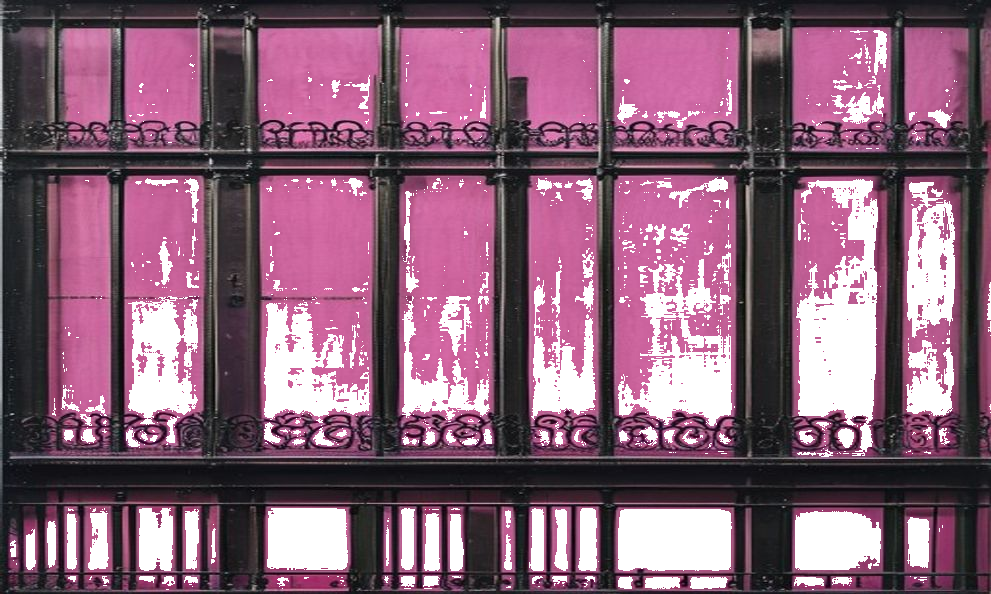
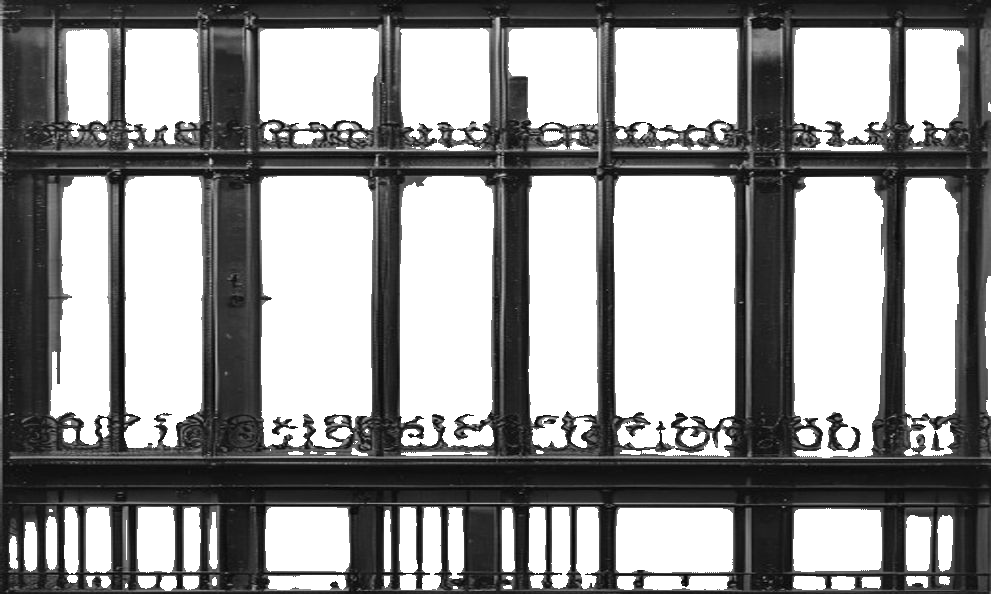
feat(harness): align-grilles verifier + re-key foreground.png grille
Add scripts/align-grilles.mjs, a single-wide verification harness for Belliard:
reuses align-windows.mjs measure/writeOverlay (no fork of the frozen file) and
builds the 54 green opening boxes directly from levelArt.json belliard.windows
via a new tested pure helper (scripts/lib/windowRows.mjs, mirrors
getWindowZones). Reads __MUF_SLOT_RECTS__ and gates a two-sided SEAT check that
the enemy feet box bottom sits at the window opening base, so the red-overflow
debug overlay covers the single-wide grille placement. yarn align:grilles alias
+ SCRIPTS.md section.

Re-key public/assets/levels/belliard/foreground.png: the regenerated décor-v3
asset had a partial chroma-key (colour-cast duotone left ~35% of the glass as
an opaque pink wash). Re-run retouch-belliard-decor.mjs (silhouette guard
passed, 0px bbox shrink) and wire that retouch step into
gen-belliard-decor.yml so future regenerations stay clean.

Claude-Session: https://claude.ai/code/session_01MpJ4Zo8KF4bzugsMWcd6VX

diff --git a/scripts/SCRIPTS.md b/scripts/SCRIPTS.md
@@ -676,6 +676,55 @@ Same setup as `align-windows.mjs` (built prod build served at `PREVIEW_URL`, `jp
 
 ---
 
+## align-grilles.mjs — Window/grille verification harness (single-wide belliard)
+
+Third sibling of `align-windows.mjs` / `align-troncon.mjs`, scoped to belliard's
+**single-wide** backdrop (ADR-0057: one baked `street-wide.png` plane, no more
+per-panel facade art or tronçon tiling). Neither sibling applies: there is no facade
+art to run edge/warm-glow DETECTION against, and none is needed — the window openings
+are **hand-authored** directly in `levelArt.json`'s `belliard.windows` (3 rows, 54
+zones: 12+18+24), expanded the same way `getWindowZones()`'s windows branch does (see
+`scripts/lib/windowRows.mjs`, unit-tested against the real manifest).
+
+The render (`WindowGrilles.tsx`) overlays the generated `foreground.png` ironwork
+sprite at each zone with its BOTTOM edge pinned to the enemy's own feet line (same
+formula `EnemySprite` uses) — so the grille can never independently drift off the cop;
+verifying "does the cop's feet box sit at its window opening's base" transitively
+verifies the grille.
+
+- **Verification-only** (unlike `align-windows.mjs`'s `--fix` loop): the hand-authored
+  zones are the ground truth, nothing is detected or corrected. It pushes them via
+  `__MUF_ZONES__`/`__MUF_APPLY_ZONES__`, reads back `__MUF_SLOT_RECTS__`, and reports
+  whether each rendered sprite box lands where it should. Reuses `measure()` (nearest-
+  opening pairing + COUNT/EMPTY) and `writeOverlay()` **unchanged** from
+  `align-windows.mjs` (imported, not forked) — that module's own `LEVEL_CFG`/detection
+  code paths (belliard included) are untouched.
+- **The SEAT gate** — this harness's own addition, not `measure()`'s one-sided OVERFLOW
+  check (which only flags a slot sinking BELOW its opening's base, never one floating
+  ABOVE it). Computes a two-sided verdict, `|slot.bottom − opening.base| <= SEAT_TAU`
+  (`SEAT_TAU = 0.01`, the same tolerance `align-windows.mjs`'s `TAU` uses), from
+  `measure()`'s already-paired `bySlot`, then feeds a `bySlot`-shaped array with
+  `contained` overridden by that verdict into the shared `writeOverlay()` so the debug
+  JPEG's red/magenta split reflects SEAT.
+- **Output:** `scripts/.dbg-belliard-grilles-check-i00.jpg` (gitignored) — the dimmed
+  `street-wide.png`, hand-authored openings in GREEN, rendered slot boxes in MAGENTA
+  (RED on a SEAT failure).
+
+```bash
+# the only mode — nothing is detected/corrected, so --check is accepted for CLI
+# parity with the sibling scripts but behaves identically to the default
+PREVIEW_URL=http://127.0.0.1:4173/prohimuf/ node scripts/align-grilles.mjs
+yarn align:grilles
+yarn align:grilles:check
+```
+
+SUCCESS = 0 SEAT defects and 0 COUNT/EMPTY defects over all 54 windows. Same setup as
+`align-windows.mjs` (built prod build served at `PREVIEW_URL`, `playwright`); `pngjs`
+decodes `street-wide.png` directly (a real opaque PNG, unlike the other levels'
+JPEG-despite-`.png` `facade.png`).
+
+---
+
 ## gen-enemy-types.mjs — Enemy sprite flipbook frames
 
 Generates the enemy archetype sprites (base cops + variants, riot/CRS,
